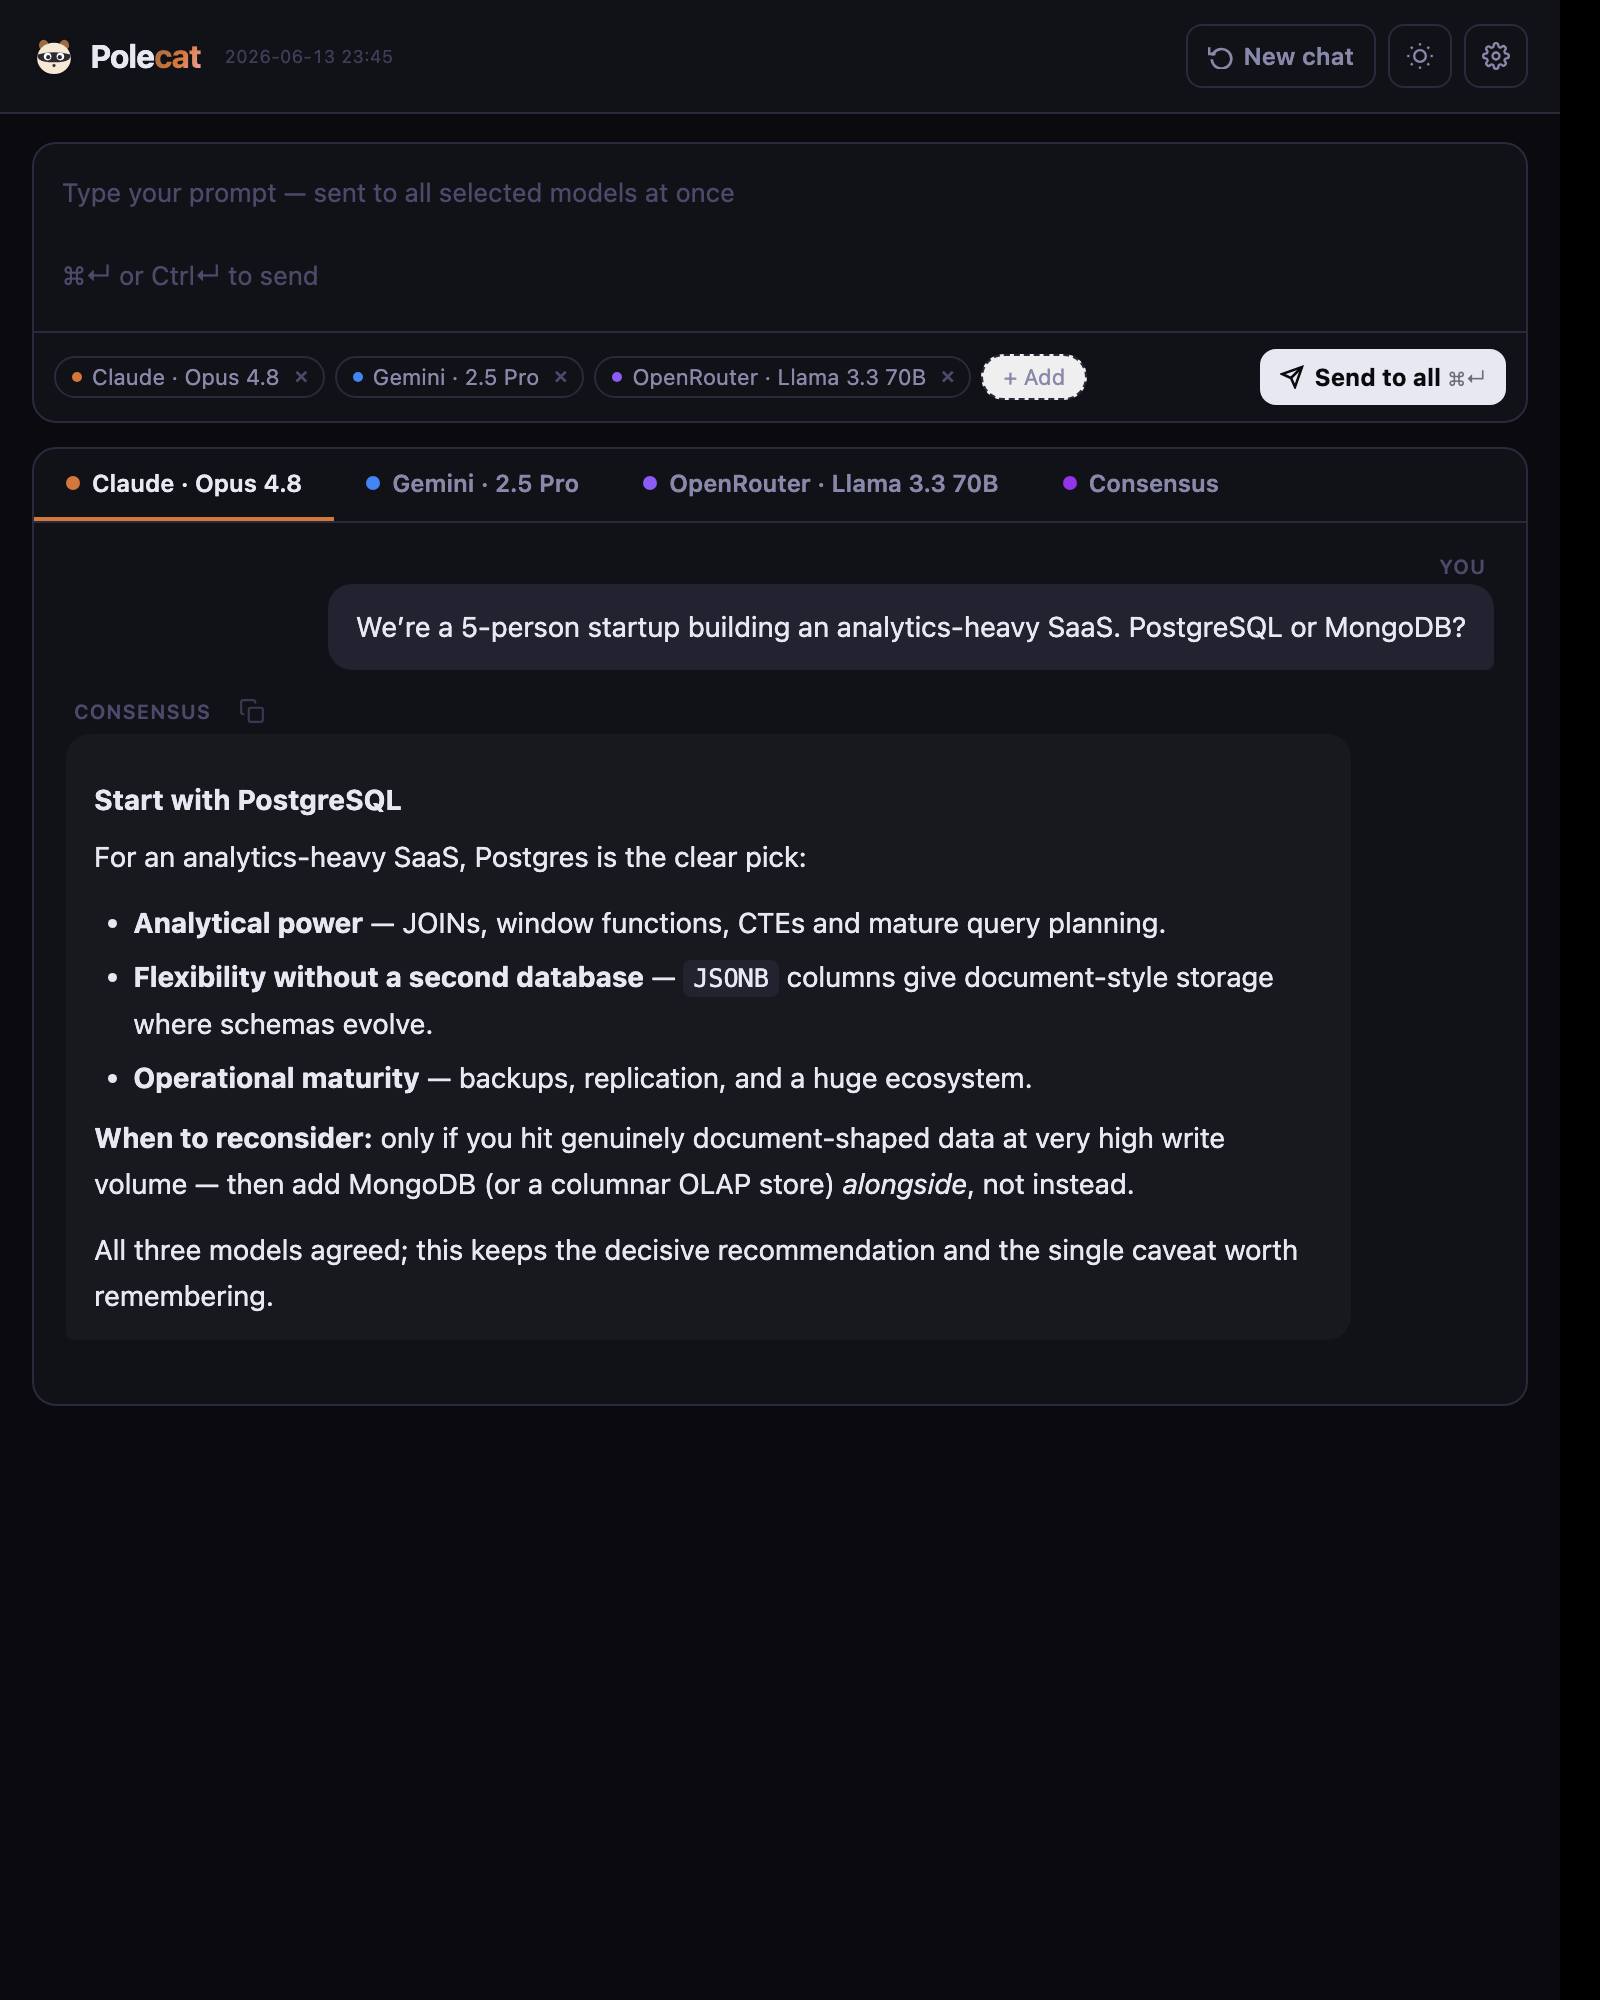
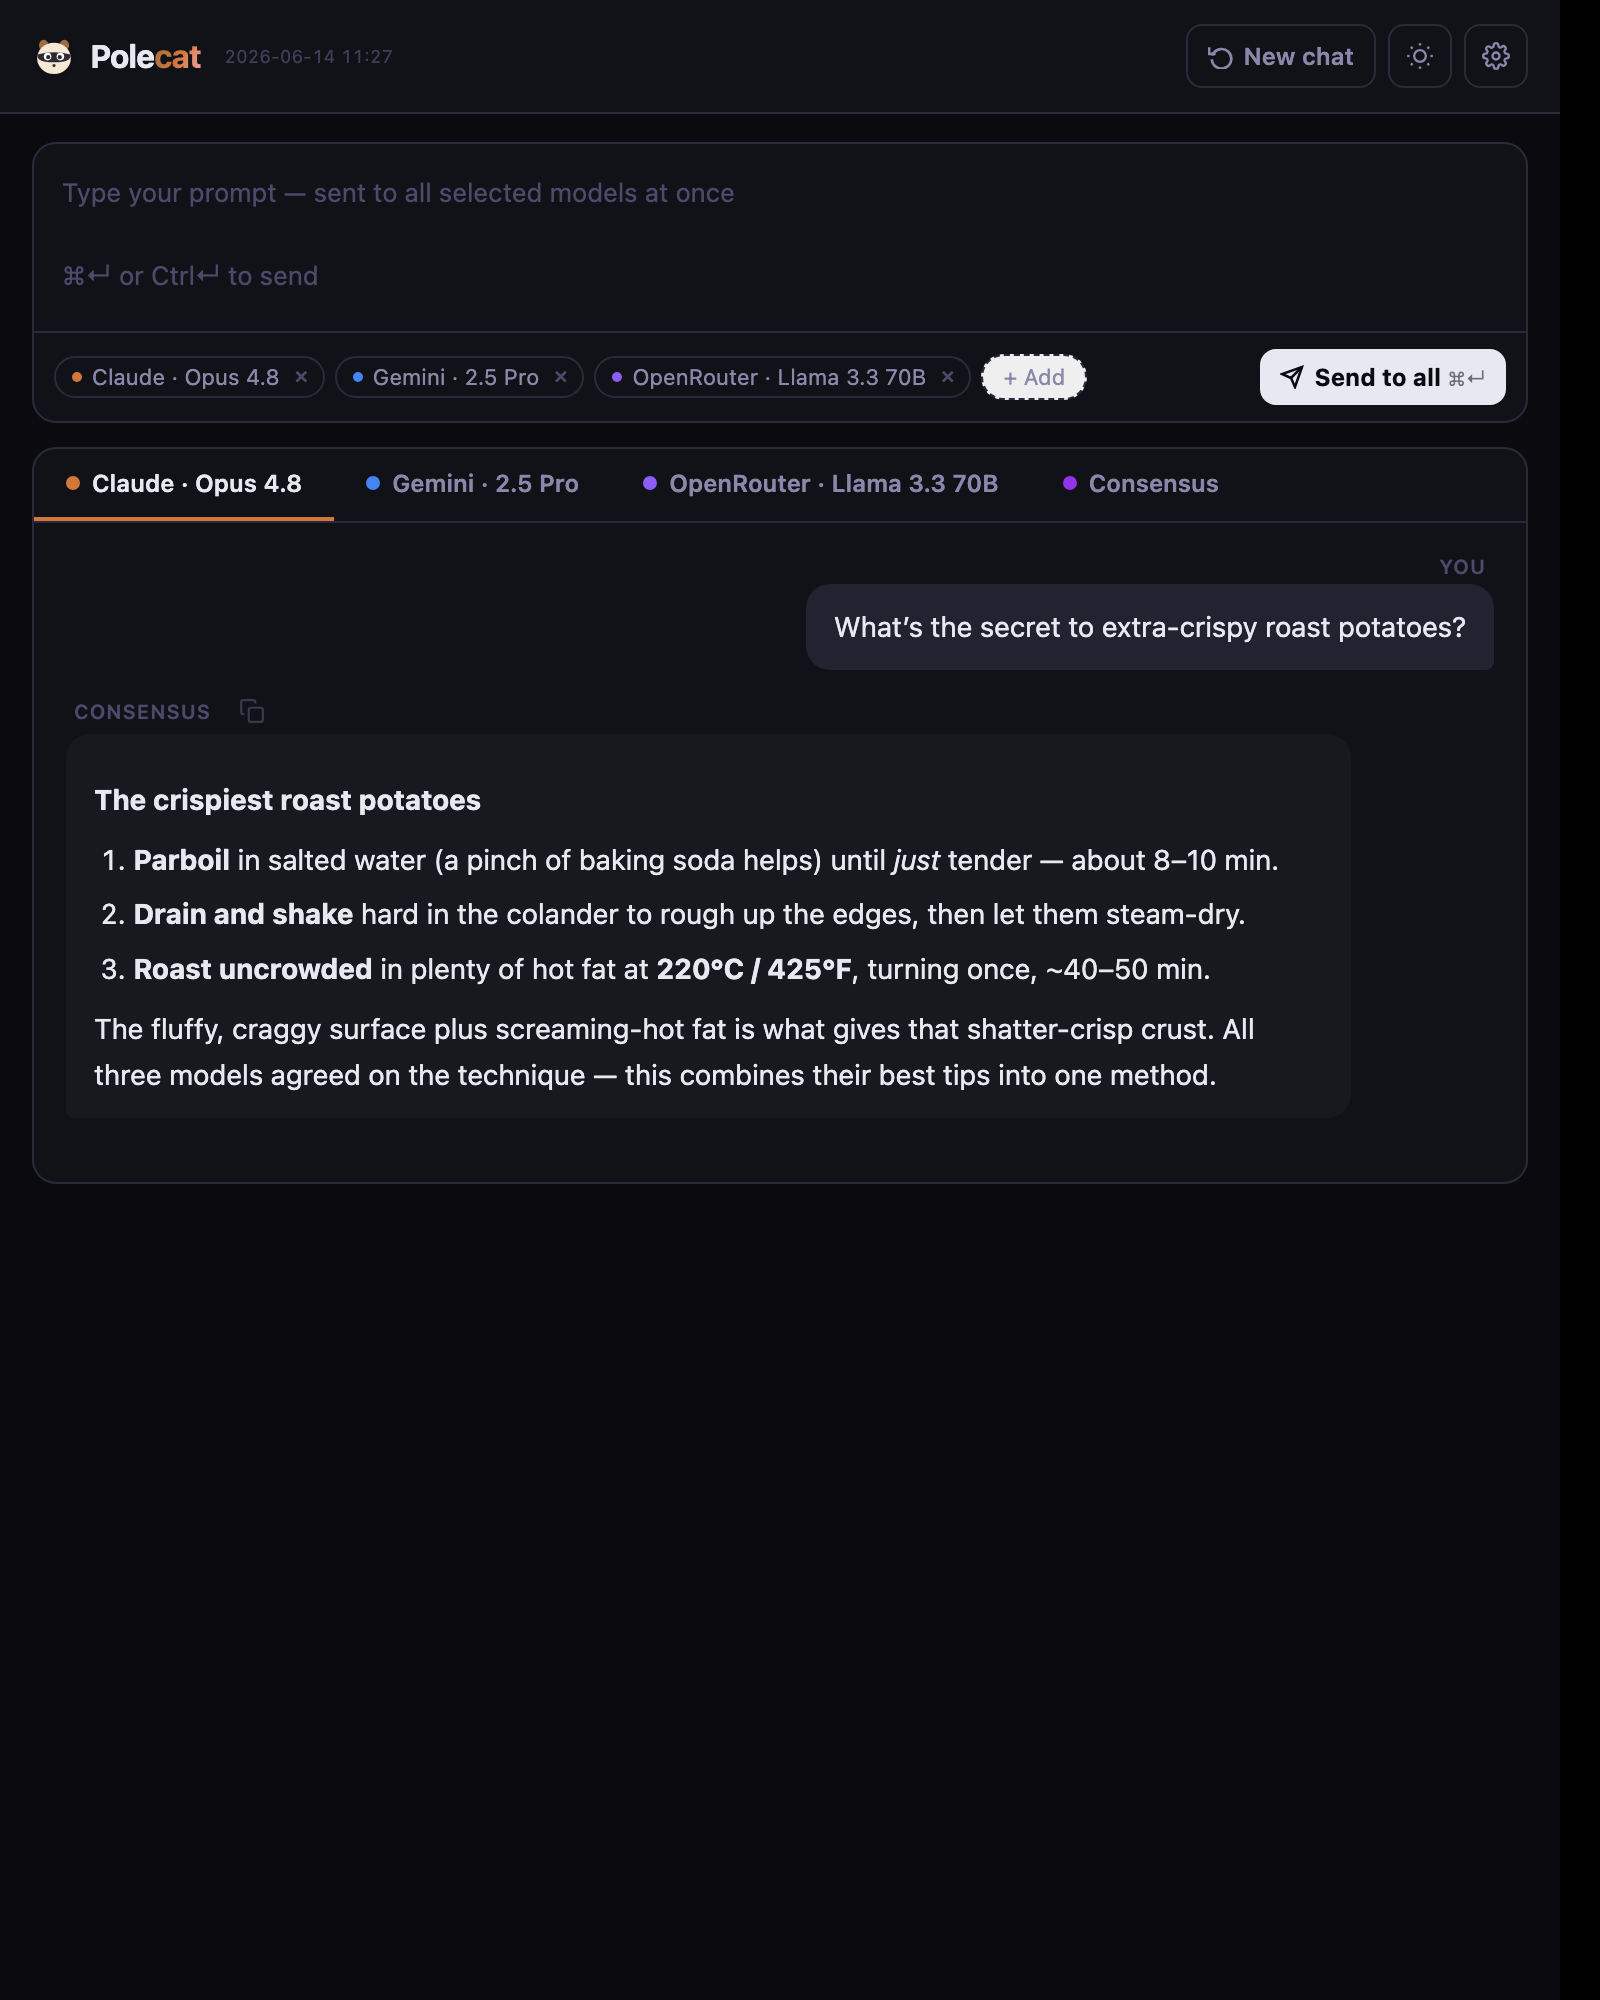
Landing: consumer-friendly case studies (roast potatoes, baking soda/powder, compound interest) + matching consensus screenshot

Changed region(s): [[0.0625, 0.372, 0.8125, 0.651], [0.2188, 0.31, 0.9062, 0.341]]

diff --git a/index.html b/index.html
@@ -116,47 +116,47 @@
       <p class="lead">Same prompt, several models, one reconciled answer. <span class="muted">Illustrative examples.</span></p>
     </div>
 
-    <!-- Case 1: decision -->
+    <!-- Case 1: everyday advice (cooking) -->
     <article class="case reveal">
-      <div class="case-tag">Decision &amp; advice</div>
-      <div class="case-q">“We're a 5-person startup building an analytics-heavy SaaS. PostgreSQL or MongoDB?”</div>
+      <div class="case-tag">Everyday advice</div>
+      <div class="case-q">“What's the secret to extra-crispy roast potatoes?”</div>
       <div class="answers">
-        <div class="ans" style="--c:#d4773b"><div class="ans-h"><span class="ans-dot"></span>Claude · Opus <span class="ans-badge paid">paid</span></div><p>Postgres. Analytical queries, JOINs and window functions are its strength; JSONB covers schema flexibility.</p></div>
-        <div class="ans" style="--c:#4285f4"><div class="ans-h"><span class="ans-dot"></span>Gemini · Pro <span class="ans-badge paid">paid</span></div><p>MongoDB is flexible for evolving schemas, but analytics favors relational — lean Postgres, revisit columnar later.</p></div>
-        <div class="ans" style="--c:#8b5cf6"><div class="ans-h"><span class="ans-dot"></span>Llama 3.3 70B <span class="ans-badge free">free</span></div><p>Postgres for analytics. Consider Mongo only for document-shaped data at very high write volume.</p></div>
-      </div>
-      <div class="consensus-card">
-        <div class="cc-h">✦ Consensus <span class="cc-strategy">Validated Synthesis</span></div>
-        <p><b>Start with PostgreSQL.</b> For analytics-heavy workloads its JOINs, window functions and mature tooling win, and JSONB gives you document-style flexibility — so you rarely need MongoDB early. Revisit a document store only if you hit genuinely document-shaped data at high write volume. All three models converged here; the consensus keeps the decisive recommendation and the one caveat worth remembering.</p>
-      </div>
-    </article>
-
-    <!-- Case 2: factual, caught a wrong answer -->
-    <article class="case reveal">
-      <div class="case-tag warn">Factual — caught a wrong answer</div>
-      <div class="case-q">“What's the time complexity of building a binary heap from an array?”</div>
-      <div class="answers">
-        <div class="ans dissent" style="--c:#10a37f"><div class="ans-h"><span class="ans-dot"></span>Model A <span class="ans-badge wrong">✗ off</span></div><p>O(n log n) — you do n insertions, each costing up to log n.</p></div>
-        <div class="ans" style="--c:#d4773b"><div class="ans-h"><span class="ans-dot"></span>Model B <span class="ans-badge ok">✓</span></div><p>O(n). Bottom-up heapify is linear — the work sums to a convergent series.</p></div>
-        <div class="ans" style="--c:#8b5cf6"><div class="ans-h"><span class="ans-dot"></span>Model C <span class="ans-badge ok">✓</span></div><p>O(n) with the standard build-heap; O(n log n) is the common misconception.</p></div>
-      </div>
-      <div class="consensus-card">
-        <div class="cc-h">✦ Consensus <span class="cc-strategy">Validated Synthesis</span></div>
-        <p><b>O(n).</b> A common misconception is O(n&nbsp;log&nbsp;n) (n inserts × log n) — but bottom-up <code>build-heap</code> is linear: the cost ∑&nbsp;(n/2<sup>h</sup>)·h converges to O(n). Polecat flagged the lone O(n log n) answer as the outlier and kept the validated result, instead of you trusting whichever model you happened to ask.</p>
-      </div>
-    </article>
-
-    <!-- Case 3: free vs paid -->
-    <article class="case reveal">
-      <div class="case-tag">Free vs paid, head-to-head</div>
-      <div class="case-q">“Explain the CAP theorem simply, with a real example.”</div>
-      <div class="answers">
-        <div class="ans" style="--c:#8b5cf6"><div class="ans-h"><span class="ans-dot"></span>Llama 3.3 70B <span class="ans-badge free">free</span></div><p>During a network partition a distributed store must choose: stay consistent (reject some reads) or stay available (risk stale reads). Clear, correct, with an example.</p></div>
-        <div class="ans" style="--c:#d4773b"><div class="ans-h"><span class="ans-dot"></span>Claude · Opus <span class="ans-badge paid">paid</span></div><p>Same core, plus nuance: CAP only bites <em>during</em> partitions; PACELC extends it to latency-vs-consistency when there's no partition.</p></div>
+        <div class="ans" style="--c:#d4773b"><div class="ans-h"><span class="ans-dot"></span>Claude · Opus <span class="ans-badge paid">paid</span></div><p>Parboil until just tender, then shake to rough up the edges — the craggy surface crisps. Roast in hot fat at ~220°C / 425°F.</p></div>
+        <div class="ans" style="--c:#4285f4"><div class="ans-h"><span class="ans-dot"></span>Gemini · Pro <span class="ans-badge paid">paid</span></div><p>A pinch of baking soda in the boiling water roughens the surface. Drain, shake, then roast in plenty of hot oil.</p></div>
+        <div class="ans" style="--c:#8b5cf6"><div class="ans-h"><span class="ans-dot"></span>Llama 3.3 70B <span class="ans-badge free">free</span></div><p>Boil 8–10 min, dry well and fluff the edges, roast in very hot fat, and don't crowd the tray.</p></div>
       </div>
       <div class="consensus-card">
         <div class="cc-h">✦ Consensus <span class="cc-strategy">Comprehensive</span></div>
-        <p>A partition forces a choice between <b>consistency</b> and <b>availability</b>; outside partitions you still trade <b>latency vs consistency</b> (PACELC). Example: a replicated database during a network split either refuses writes to stay consistent, or accepts them and reconciles later. <b>The free Llama answer held its own against the paid flagship</b> — consolidation lets you lean on free models and validate the nuance with a paid one.</p>
+        <p><b>Parboil until just-tender</b> (a pinch of baking soda in the water helps), drain and <b>shake hard to rough up the edges</b>, then roast <b>uncrowded in plenty of hot fat at ~220°C/425°F</b>, turning once. The fluffy, craggy surface plus hot fat is what gives that shatter-crisp crust — the consensus blends every tip into one method.</p>
+      </div>
+    </article>
+
+    <!-- Case 2: caught a wrong answer (baking) -->
+    <article class="case reveal">
+      <div class="case-tag warn">Caught a wrong answer</div>
+      <div class="case-q">“Can I swap baking soda for baking powder, 1-to-1?”</div>
+      <div class="answers">
+        <div class="ans dissent" style="--c:#10a37f"><div class="ans-h"><span class="ans-dot"></span>Model A <span class="ans-badge wrong">✗ off</span></div><p>Sure — they're both leaveners, so swap them 1:1.</p></div>
+        <div class="ans" style="--c:#d4773b"><div class="ans-h"><span class="ans-dot"></span>Model B <span class="ans-badge ok">✓</span></div><p>No — baking soda is ~3–4× stronger and needs an acid; a 1:1 swap tastes soapy and collapses.</p></div>
+        <div class="ans" style="--c:#8b5cf6"><div class="ans-h"><span class="ans-dot"></span>Model C <span class="ans-badge ok">✓</span></div><p>Not 1:1. Use about ¼ as much soda plus an acid — or just use the baking powder.</p></div>
+      </div>
+      <div class="consensus-card">
+        <div class="cc-h">✦ Consensus <span class="cc-strategy">Validated Synthesis</span></div>
+        <p><b>No — not a 1:1 swap.</b> Baking soda is much stronger and needs an acidic ingredient to work; use roughly <b>¼ the amount plus an acid</b> (like cream of tartar), or simply use baking powder as written. Polecat flagged the lone “just swap it” answer as wrong and kept the validated guidance — exactly the kind of confident mistake that ruins a bake.</p>
+      </div>
+    </article>
+
+    <!-- Case 3: free vs paid (everyday money) -->
+    <article class="case reveal">
+      <div class="case-tag">Free vs paid, head-to-head</div>
+      <div class="case-q">“Explain compound interest simply, with an example.”</div>
+      <div class="answers">
+        <div class="ans" style="--c:#8b5cf6"><div class="ans-h"><span class="ans-dot"></span>Llama 3.3 70B <span class="ans-badge free">free</span></div><p>Interest earns interest. $1,000 at 5%/yr → $1,050 after year 1; year 2 you earn 5% on $1,050 = $1,102.50. It snowballs.</p></div>
+        <div class="ans" style="--c:#d4773b"><div class="ans-h"><span class="ans-dot"></span>Claude · Opus <span class="ans-badge paid">paid</span></div><p>Same core, plus nuance: it grows faster the more often it compounds (monthly &gt; yearly), and starting early matters most.</p></div>
+      </div>
+      <div class="consensus-card">
+        <div class="cc-h">✦ Consensus <span class="cc-strategy">Comprehensive</span></div>
+        <p>Compound interest is <b>interest earning interest</b>. Example: $1,000 at 5%/yr is $1,050 after one year, then $1,102.50 after two (you earn 5% on the new balance). It snowballs — faster the more often it compounds, and the earlier you start. <b>The free model nailed the basics; the paid one added the nuance</b> — together you get a complete, trustworthy answer.</p>
       </div>
     </article>
   </div>